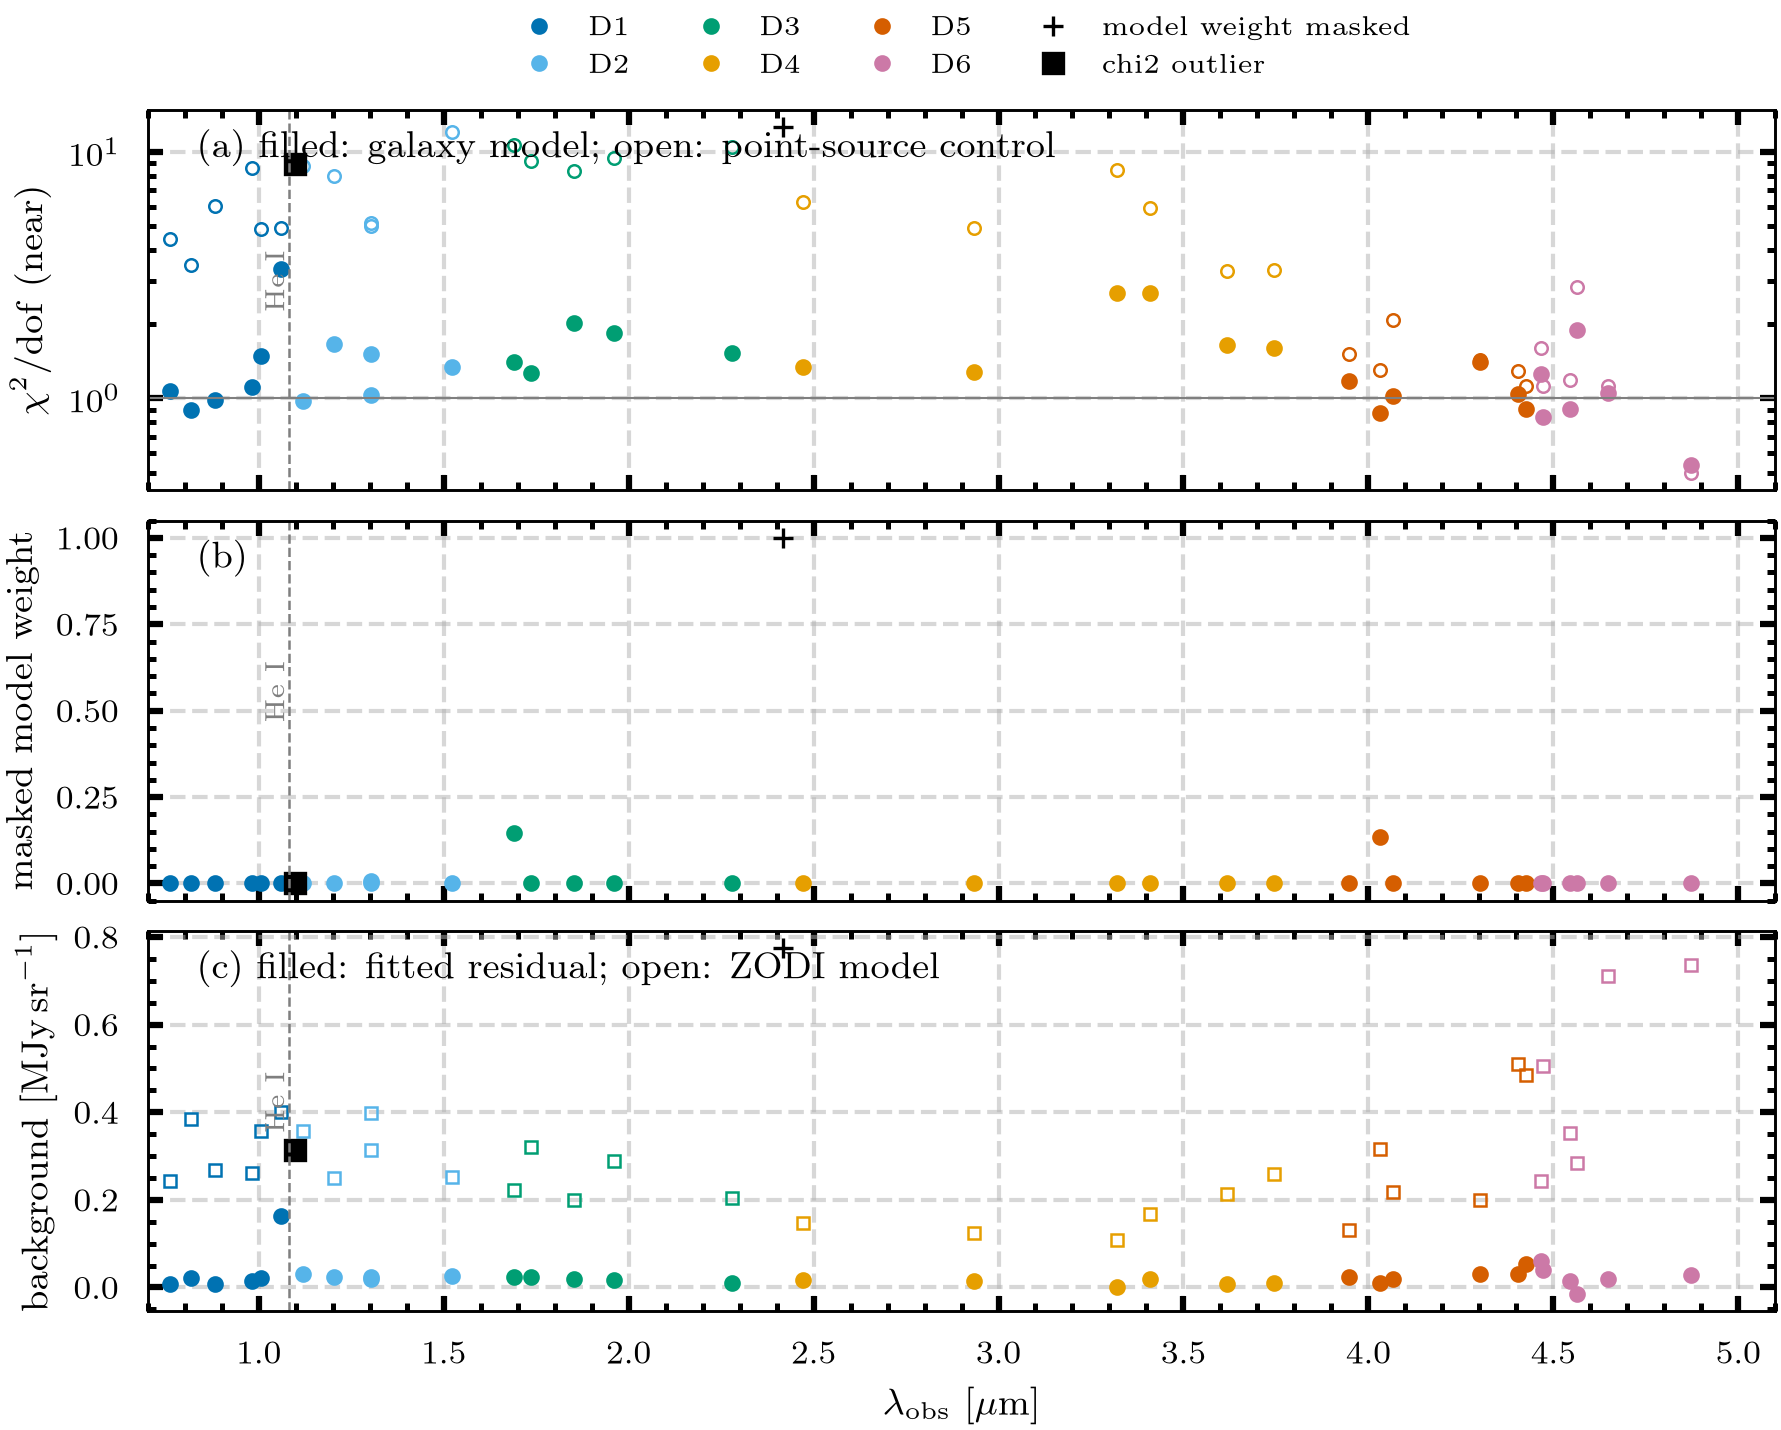
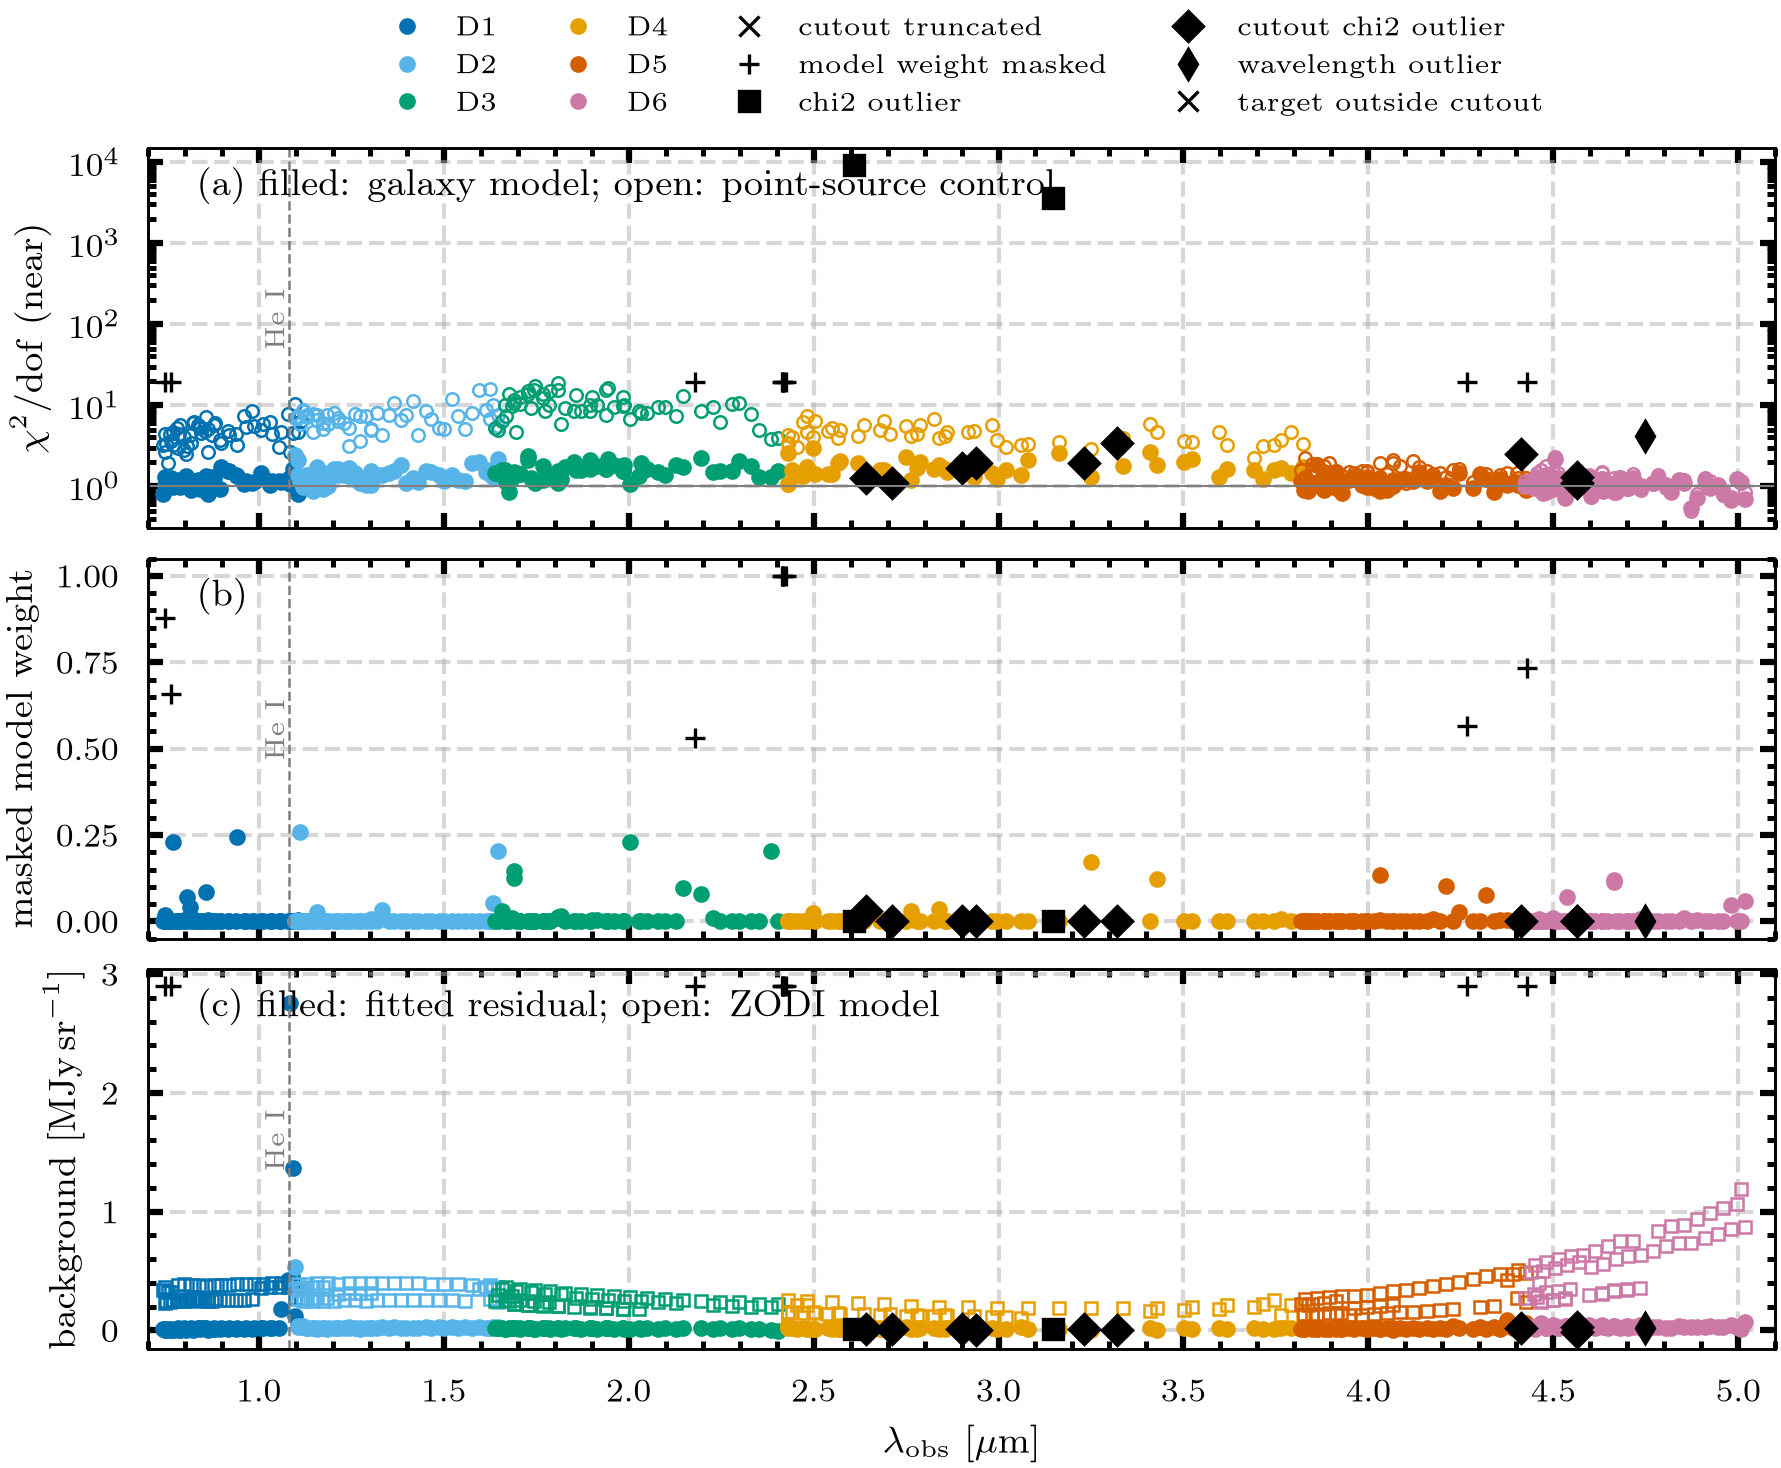
Boundary test: joint quadratic-plus-step fit in log flux
Claude-Session: https://claude.ai/code/session_01MBfZjXV3dy9TkwUJtA7fGd

diff --git a/spherex_psb/validation/boundary.py b/spherex_psb/validation/boundary.py
@@ -1,9 +1,10 @@
 """Detector-boundary test: flux ratio between the two detectors that both observe a boundary wavelength.
 
-The detector overlaps (from the ePSF CWAVE ranges; docs/sed_demo_task.md section 7) are narrow, so instead
-of requiring exposures inside the overlap, the exposures of each detector within a window around the
-boundary are fitted with a straight line in wavelength (weighted by their errors) and the two lines are
-evaluated at the boundary wavelength. The ratio B/A and its error come from the line intercepts.
+The detector overlaps (from the ePSF CWAVE ranges; docs/sed_demo_task.md section 7) are narrow and their
+pixels are mostly DICHROIC-flagged at D3/D4, so instead of requiring exposures inside the overlap, the
+exposures of both detectors within a window around the boundary are fitted jointly with a quadratic in
+wavelength (in log flux, so that the local curvature of the SED is absorbed) plus a constant step for
+detector B. The step is the logarithm of the B/A flux ratio.
 """
 
 from __future__ import annotations
@@ -21,31 +22,33 @@ BOUNDARIES_UM = {
 WINDOW_UM = {"D1/D2": 0.12, "D2/D3": 0.15, "D3/D4": 0.20, "D4/D5": 0.12, "D5/D6": 0.10}
 
 
-def _line_at(
-    wavelength: np.ndarray, flux: np.ndarray, err: np.ndarray, x0: float
-) -> tuple[float, float, int]:
-    """Weighted straight-line fit flux = a + b (lambda - x0); returns (a, sigma_a, n)."""
-    good = np.isfinite(flux) & np.isfinite(err) & (err > 0)
-    wavelength, flux, err = wavelength[good], flux[good], err[good]
-    n = len(flux)
-    if n == 0:
-        return np.nan, np.nan, 0
-    if n == 1:
-        return float(flux[0]), float(err[0]), 1
+def _step_fit(wavelength, flux, err, is_b, x0: float) -> tuple[float, float, int, int]:
+    """Joint weighted fit of ln(flux) = p0 + p1 x + p2 x^2 + s [detector B], x = lambda - x0.
+
+    Returns (s, sigma_s, n_a, n_b). The quadratic absorbs the local curvature of the SED; the step s is the
+    logarithm of the detector ratio at every wavelength of the window.
+    """
+    good = np.isfinite(flux) & np.isfinite(err) & (err > 0) & (flux > 0)
+    wavelength, flux, err, is_b = wavelength[good], flux[good], err[good], is_b[good]
+    n_a, n_b = int((~is_b).sum()), int(is_b.sum())
+    if n_a == 0 or n_b == 0 or len(flux) < 5:
+        return np.nan, np.nan, n_a, n_b
     x = wavelength - x0
-    w = 1.0 / err**2
-    if n == 2 or np.ptp(x) < 1e-4:
-        a = np.sum(w * flux) / np.sum(w)
-        return float(a), float(1 / np.sqrt(np.sum(w))), n
-    design = np.stack([np.ones(n), x], axis=1)
+    y = np.log(flux)
+    w = (flux / err) ** 2
+    columns = [np.ones(len(x)), x, is_b.astype(float)]
+    if len(flux) >= 6 and np.ptp(x) > 0.02:
+        columns.insert(2, x**2)
+    design = np.stack(columns, axis=1)
     normal = design.T @ (design * w[:, None])
-    covariance = np.linalg.inv(normal)
-    coefficients = covariance @ (design.T @ (flux * w))
-    return float(coefficients[0]), float(np.sqrt(covariance[0, 0])), n
+    covariance = np.linalg.pinv(normal)
+    coefficients = covariance @ (design.T @ (y * w))
+    k = design.shape[1] - 1
+    return float(coefficients[k]), float(np.sqrt(max(covariance[k, k], 0))), n_a, n_b
 
 
 def boundary_ratios(records: pd.DataFrame, flux_column: str) -> pd.DataFrame:
-    """One row per boundary: ratio of the detector-B to detector-A flux at the boundary wavelength."""
+    """One row per boundary: ratio of the detector-B to detector-A flux across the boundary."""
     err_column = flux_column.replace("_ujy", "_err_ujy")
     usable = records[records.screen_reason == ""]
     rows = []
@@ -61,20 +64,16 @@ def boundary_ratios(records: pd.DataFrame, flux_column: str) -> pd.DataFrame:
             & (usable.cwave_um >= wavelength - 0.03)
             & (usable.cwave_um <= wavelength + window)
         ]
-        fa, ea, na = _line_at(
-            a_rows.cwave_um.to_numpy(),
-            a_rows[flux_column].to_numpy(),
-            a_rows[err_column].to_numpy(),
+        both = pd.concat([a_rows, b_rows])
+        is_b = np.concatenate([np.zeros(len(a_rows), bool), np.ones(len(b_rows), bool)])
+        step, step_err, na, nb = _step_fit(
+            both.cwave_um.to_numpy(),
+            both[flux_column].to_numpy(),
+            both[err_column].to_numpy(),
+            is_b,
             wavelength,
         )
-        fb, eb, nb = _line_at(
-            b_rows.cwave_um.to_numpy(),
-            b_rows[flux_column].to_numpy(),
-            b_rows[err_column].to_numpy(),
-            wavelength,
-        )
-        ratio = fb / fa if (na and nb and fa > 0) else np.nan
-        ratio_err = ratio * np.hypot(ea / fa, eb / fb) if np.isfinite(ratio) else np.nan
+        ratio = float(np.exp(step)) if np.isfinite(step) else np.nan
         rows.append(
             {
                 "boundary": name,
@@ -82,11 +81,10 @@ def boundary_ratios(records: pd.DataFrame, flux_column: str) -> pd.DataFrame:
                 "flux_column": flux_column,
                 "n_a": na,
                 "n_b": nb,
-                "flux_a_ujy": fa,
-                "flux_b_ujy": fb,
                 "ratio_b_over_a": ratio,
-                "ratio_err": ratio_err,
-                "ratio_mag": -2.5 * np.log10(ratio) if np.isfinite(ratio) and ratio > 0 else np.nan,
+                "ratio_err": ratio * step_err if np.isfinite(ratio) else np.nan,
+                "ratio_mag": -2.5 / np.log(10) * step if np.isfinite(step) else np.nan,
+                "ratio_mag_err": 2.5 / np.log(10) * step_err if np.isfinite(step_err) else np.nan,
             }
         )
     return pd.DataFrame(rows)

diff --git a/scripts/sed_demo/make_sample_figures.py b/scripts/sed_demo/make_sample_figures.py
@@ -63,7 +63,7 @@ def figure_boundaries(out_path: Path) -> pd.DataFrame:
             sub = table[(table.galaxy == galaxy) & (table.flux_column == column)]
             marker, colour = GALAXY_MARKERS[galaxy]
             x = np.array([names.index(b) for b in sub.boundary]) + (k - len(galaxies) / 2) * 0.09
-            err = 2.5 / np.log(10) * sub.ratio_err / sub.ratio_b_over_a
+            err = sub.ratio_mag_err
             ax.errorbar(
                 x,
                 sub.ratio_mag,
